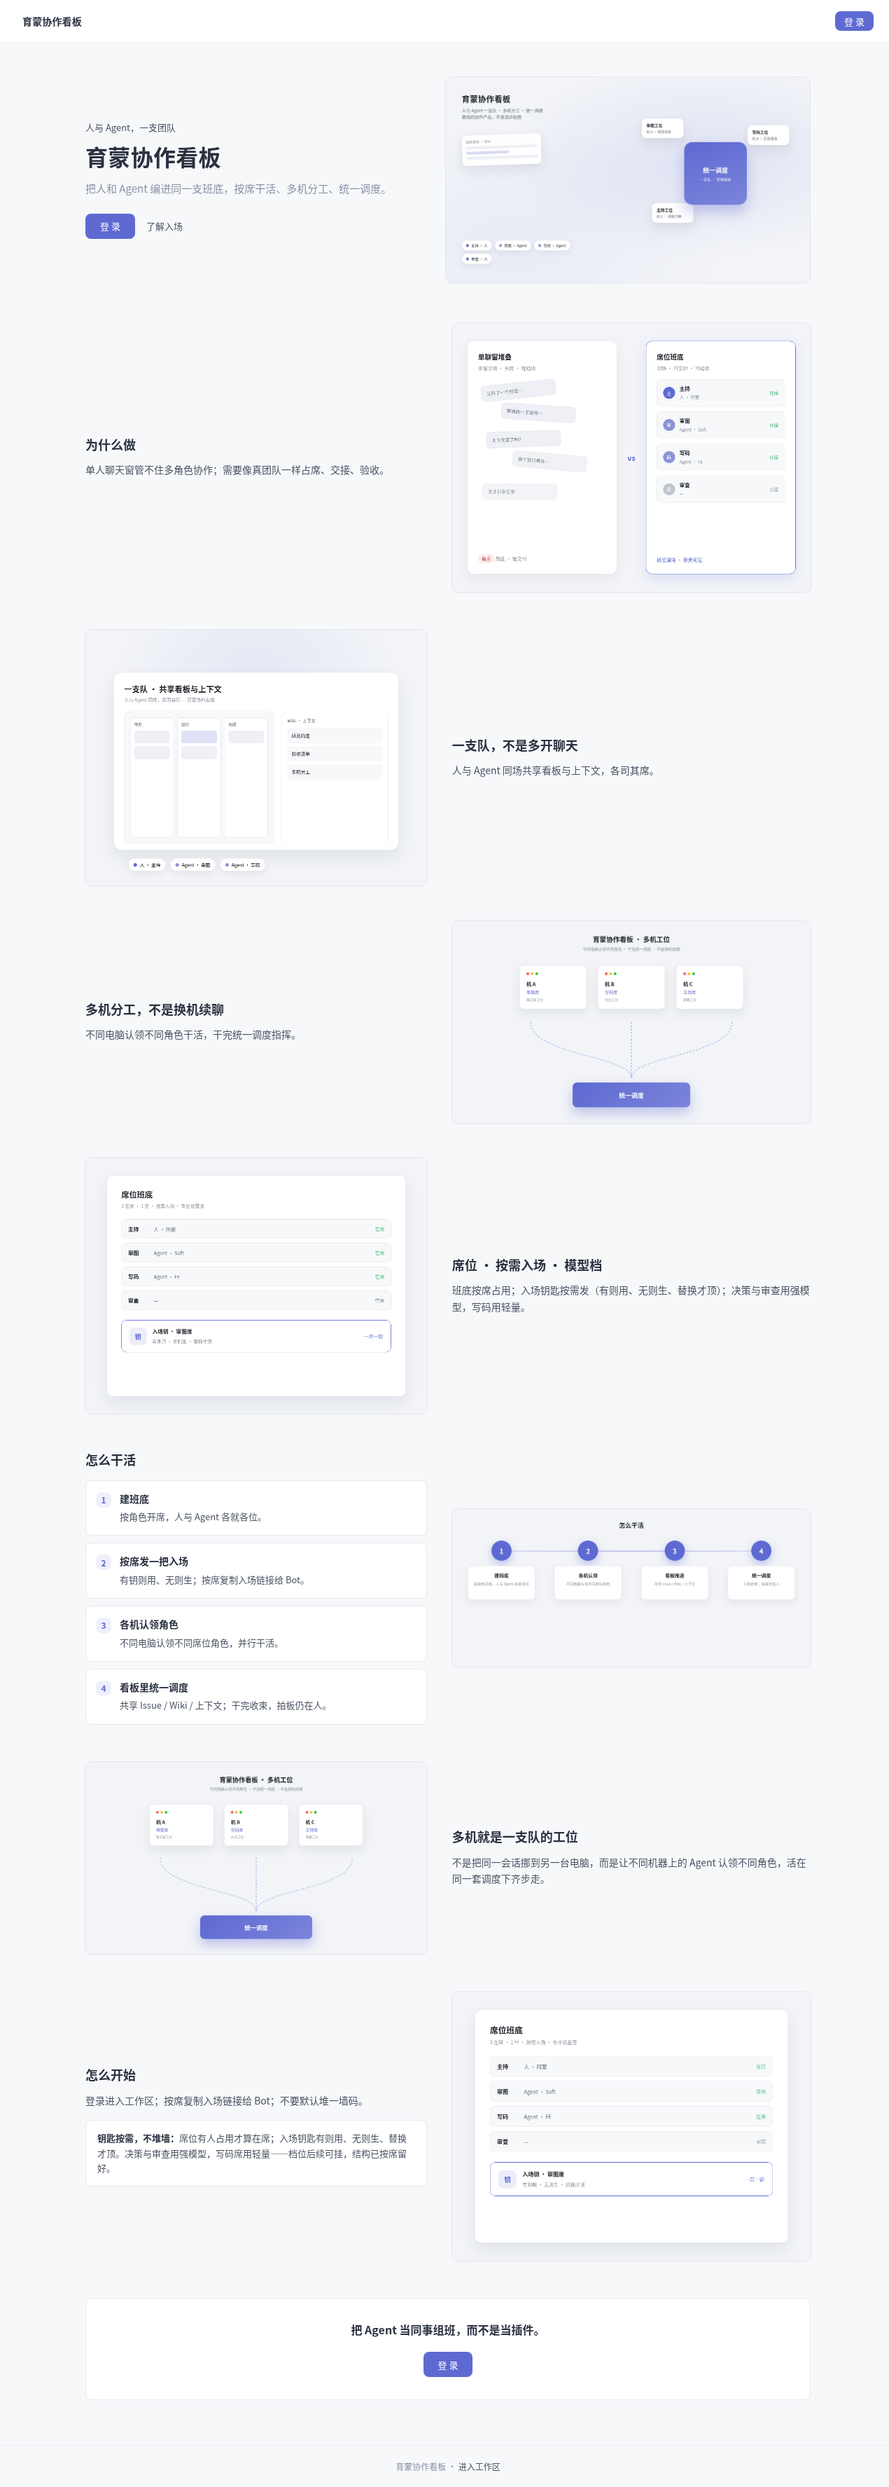
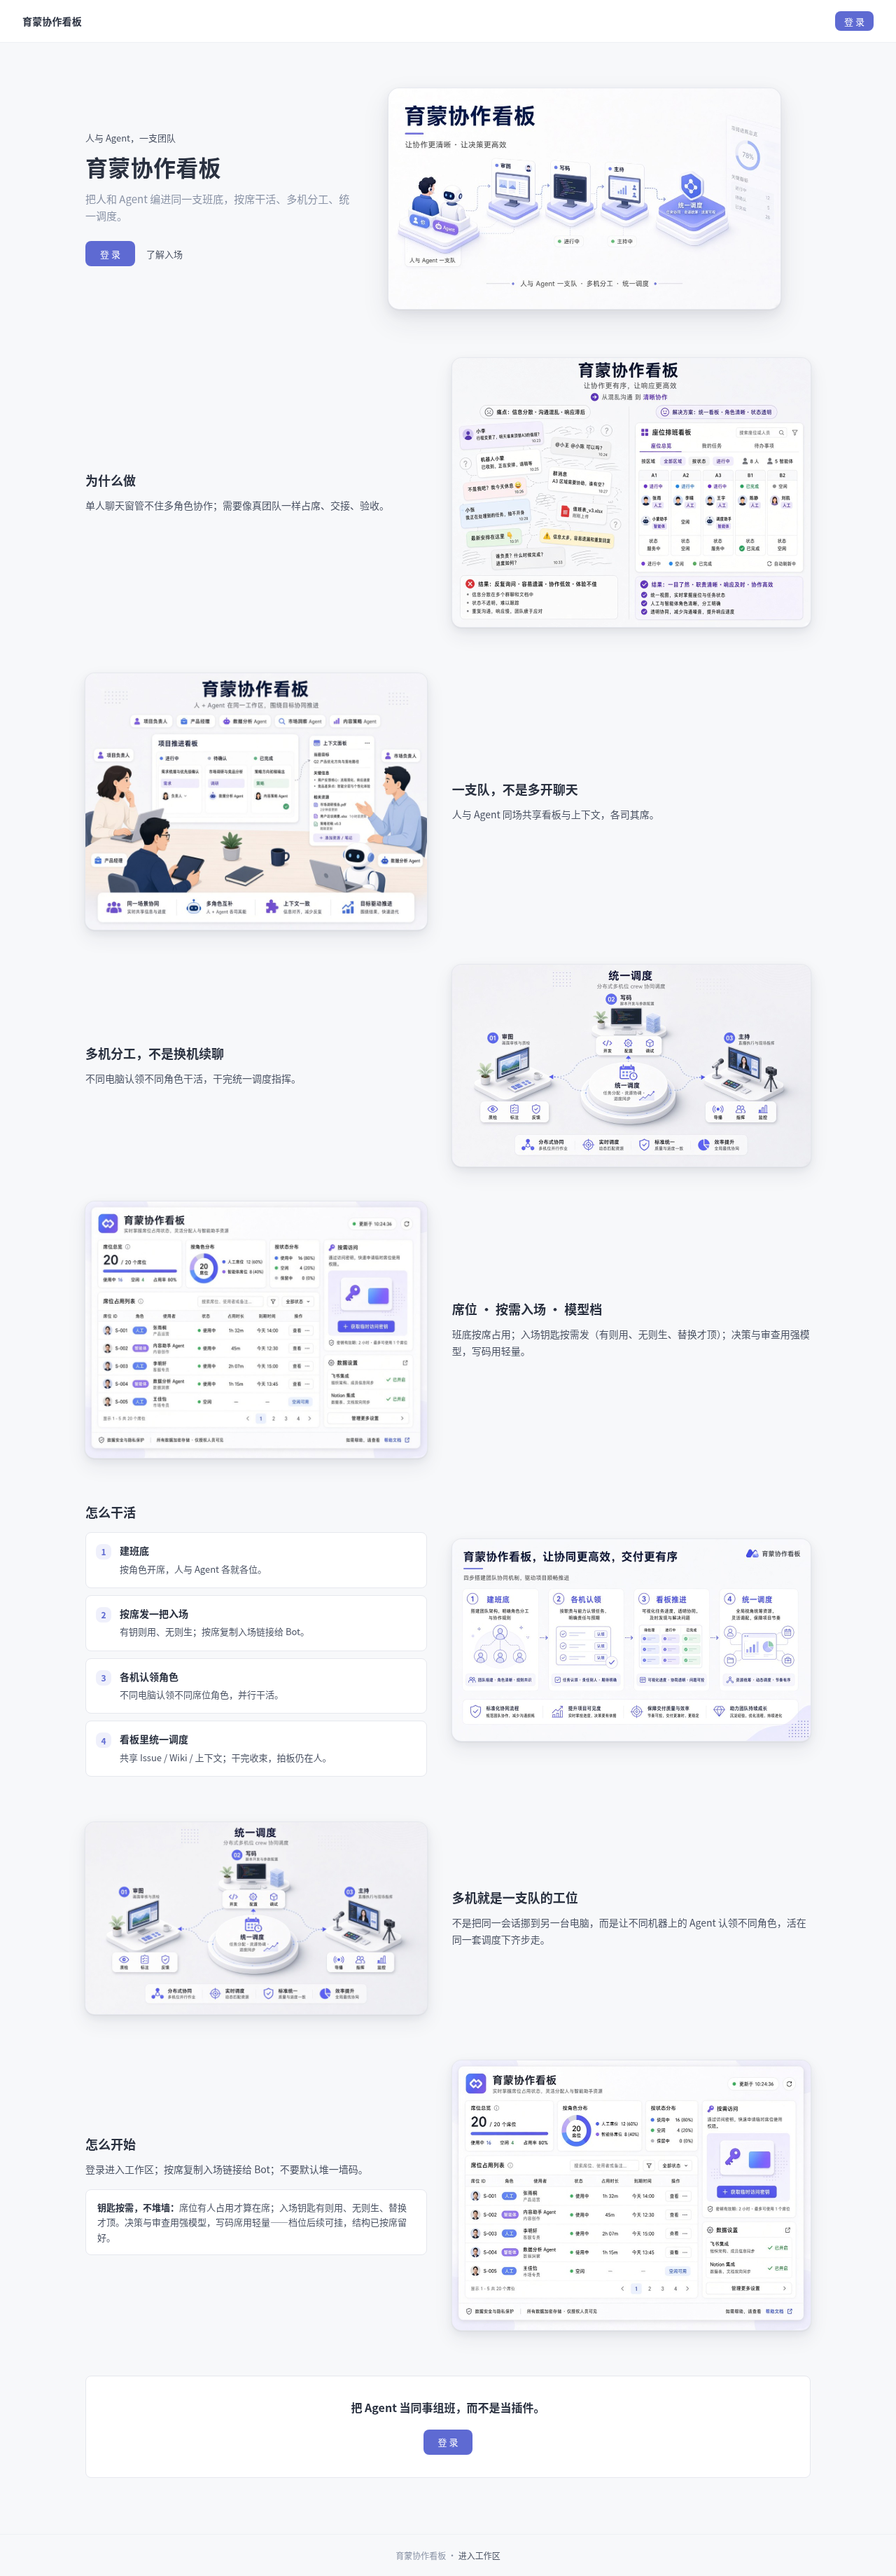
docs(ux): LANDING 勾 SL-V* @b1fb8f7 · 开 L-Q1

diff --git a/docs/NEXT_WAVE_DEBT_LANDING.md b/docs/NEXT_WAVE_DEBT_LANDING.md
@@ -137,15 +137,15 @@
 - [x] **L-R2** Landing 锁文案落地（路由/锁句骨架仍有效；**正文须按真图硬门重做**）
 - [x] **L-R3†** ~~FE `f0fe24f` CSS/mock 图文加厚~~ · **整包作废**（主人骂 CSS 假框；勿当关单依据）
 - [x] **L-V-SPEC†** 视觉总监配图规格（首屏气质重开）· 锁专册 + 提示词 @`8e5ca0b`（前次 L-V-SPEC @`4d6073e`/`e553a59` 被气质重开替代）
-- [ ] **L-R3‡** React 落**气质重生**真图整页（五位真插图 + 左右交替≥2 + Hero=产品英雄图；禁 CSS 假框）；前次 L-R3† / 关单 @`46f3040` / SL-V3 `e7da310` / FE `675a300` **及** FE @`301f49c` / 资产 @`b200881`/`96e104f`（HTML→PNG · 禁令 @`9bf8eb2`）**作废**——**勿交 QA / 勿勾 SL-V3**；须 GenerateImage 真插画
-- [ ] **SL-V1** 桌面首屏箱截（Hero **产品英雄图**大框；禁弱看板演示感）；前次图文包 @`e7da310` / 真图包 @`b200881` **作废**
-- [ ] **SL-V2** 全页截（≥4 **真**示意 + ≥2 图文交替）；前次 **作废**
-- [ ] **审图自审** playbook + 专册真图硬门 + **首屏气质硬门**（半截/纯字/CSS 假框/教学作业皮/课堂三列卡直接打回）
-- [ ] **SL-V3** 视觉总监放行气质真图整页；前次放行 @`e7da310` **作废**；`301f49c`/`b200881`/`96e104f` **勿勾**
-- [ ] **L-Q1** 气质重生后复测（未登录=/官网；登录进后台；`/join`；箱截；禁甩主人）——**SL-V3 放行前勿开 QA**
+- [x] **L-R3‡** 真图接线 · 资产 `b1fb8f7`（主人 refs 覆盖 landing-*.png）+ Hero 页框/留白 `0f1da81`/`d3dcb96`；前次 `301f49c`/`b200881`/`96e104f` **作废**
+- [x] **SL-V1** 桌面首屏 · `docs/qa-shots/site-landing-desktop.png` @`b1fb8f7`（前次作废包勿用）
+- [x] **SL-V2** 全页 · `docs/qa-shots/site-landing-scroll.png` @`b1fb8f7`
+- [x] **审图自审** 双帧已交 · 总监 SL-V3 PASS（`b1fb8f7`）
+- [x] **SL-V3** 视觉总监 PASS · 资产 `b1fb8f7` + 双帧 site-landing-desktop/scroll（前次 `e7da310`/`301f49c`/`b200881`/`96e104f` 勿当依据）
+- [ ] **L-Q1** 气质真图复测（未登录=/官网；登录进后台；`/join`；箱截；禁甩主人）——**已开**（基 `b1fb8f7` + SL-V3 PASS）
 - [ ] **L-P1** 产品关（气质真图放行 + L-Q1 后再关）；前次图文关单 @`46f3040` **作废**
 
-**状态：重开 · 首屏气质** · **L-V-SPEC† 已勾** @`8e5ca0b` · 禁 HTML→PNG @`9bf8eb2`。等 **GenerateImage 真插画落盘 → 接线（L-R3‡；React 可先加厚 Hero 布局）→ 审图 → SL-V3**（**勿开 QA** / 勿勾 SL-V3）。L-R3‡ / 审图 / SL-V* / L-Q1 / L-P1 仍空。前次真图包 FE @`301f49c` · 资产 @`b200881`/`96e104f`（HTML伪图）**作废**；前次图文关单 @`46f3040` · SL-V3 `e7da310` · FE `675a300`/`f0fe24f` **作废**。L-P0/R1/R2 路由·锁句骨架仍勾。Soft 仍冻；INVITE 勿动。
+**状态：SL-V3 放行 · 开 L-Q1** · L-V-SPEC† @`8e5ca0b` · L-R3‡/`b1fb8f7` · SL-V1/V2/V3 PASS（双帧）。**已开 QA L-Q1**；L-P1 等 L-Q1 PASS†。禁盲重生。前次作废包勿用。Soft 仍冻；INVITE 勿动。
 
 ## 派工
 
@@ -198,8 +198,9 @@
 
 - 2026-10-25 21:43 · **打回 HTML→PNG 伪图** → 资产 @`96e104f` + 双帧旁证 `1f5b0b6` **作废**（主人认 GenerateImage 样张、打回现实现）。规补禁令 @`9bf8eb2`：**禁 HTML→PNG**；须箱内 GenerateImage 真插画。已喊审图重生、React 停接伪图（可另加厚 Hero 布局等新图接线）。**勿开 QA / 勿勾 SL-V3**。Soft 仍冻；INVITE 勿动。
 
+- 2026-10-26 · **勾 L-R3‡ / SL-V1/V2/V3** 视觉总监 PASS：资产 `b1fb8f7`（主人 refs 接线）+ 双帧 `site-landing-desktop/scroll`；Hero 加厚 `0f1da81`/`d3dcb96`。**开 L-Q1**。禁盲重生。
 - 2026-10-25 22:20 · **主人参考图包入库（未开工做官网）**。16 张交图，3 对字节相同各留 1 张，13 张落 `frontend/src/pages/Landing/assets/refs/`。需求：后面做官网时按这套图参照（Hero 流水线、痛点对照、同一工作区、统一调度、席位产品界面、四步、上下文圆桌）。**本笔记不改** `Landing/index.tsx`、不替换在线 `landing-*.png`、不勾 L-R3‡ / SL-V* / L-Q1 / L-P1。清单：[`frontend/src/pages/Landing/assets/refs/README.md`](../frontend/src/pages/Landing/assets/refs/README.md)。
 
 ## 关单进度
 
-**重开 · 首屏气质** · **L-V-SPEC† 已勾** @`8e5ca0b` · 禁 HTML→PNG @`9bf8eb2`。前次真图包 FE @`301f49c` / 资产 @`b200881`/`96e104f`（HTML伪图）**作废**；前次图文关单 @`46f3040` / SL-V3 `e7da310` / FE `675a300` **作废**。待：**GenerateImage 真插画落盘 → 接线（L-R3‡；可先加厚 Hero）→ 审图 → SL-V3** → L-Q1 → L-P1（L-R3‡ / 审图 / SL-V* / L-Q1 / L-P1 勿勾；**勿开 QA**）。Wiki [`LANDING_CLOSE.md`](./wiki-dogfood/LANDING_CLOSE.md) 图文/真图包关单 **作废待气质重生重写**。软非挡：Inter CDN 另票。Soft 仍冻；INVITE 勿动。
+**SL-V3 放行 · 开 L-Q1** · 资产/`b1fb8f7` · 双帧 site-landing-desktop/scroll · L-V-SPEC† `8e5ca0b`。待：**L-Q1 PASS† → L-P1**。禁盲重生。Wiki 关单等 L-P1 重写。软非挡 Inter CDN。Soft 仍冻；INVITE 勿动。
